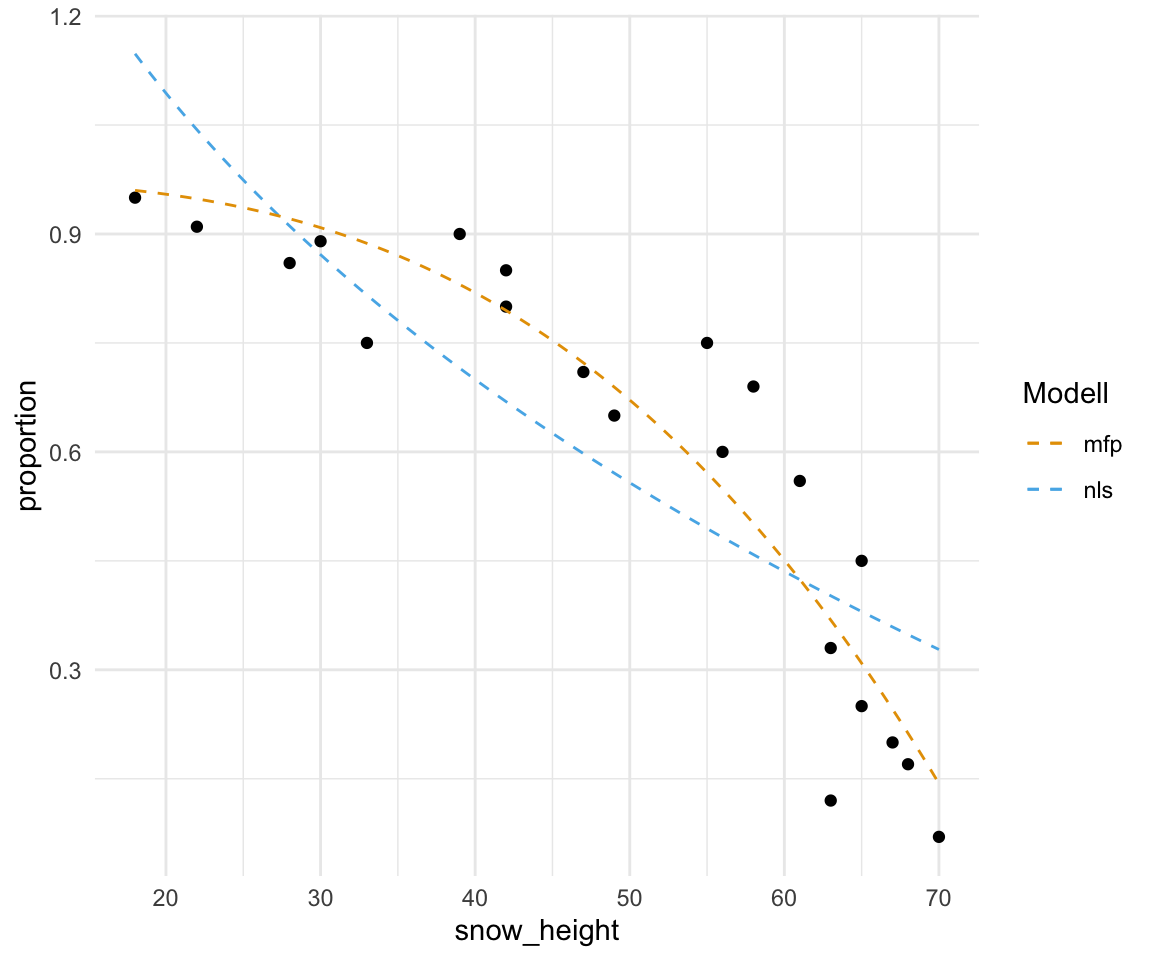
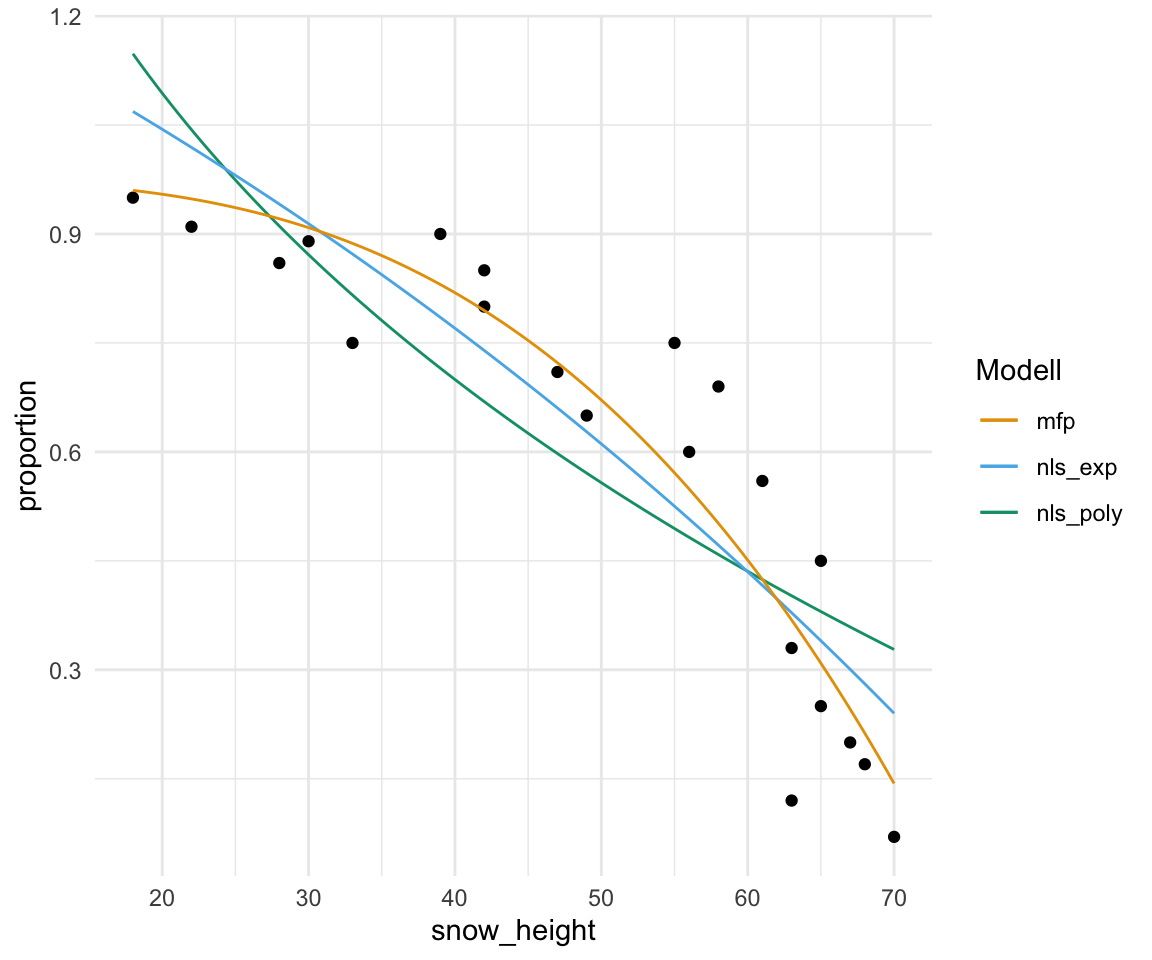
added non linear

diff --git a/docs/stat-modeling-beta.html b/docs/stat-modeling-beta.html
@@ -756,7 +756,7 @@ div.csl-indent {
 
 </header>
 
-<p><em>Letzte Änderung am 07. January 2024 um 18:56:06</em></p>
+<p><em>Letzte Änderung am 07. January 2024 um 20:40:33</em></p>
 <div class="quarto-figure quarto-figure-center">
 <figure class="figure">
 <p><img src="images/caution.png" class="img-fluid figure-img" style="width:50.0%"></p>
@@ -1430,10 +1430,14 @@ Wo ist die mathematische Formel?
 </div>
 </div>
 <div class="callout-body-container callout-body">
+<p>Jetzt haben wir zwar schön das Modell mit der Beta Regression geschätzt aber leider keine mathematische Formel erhalten. Das ist jetzt ja eigentlich auch eine andere Fragestellung. Daher nutzen wir für die Erstellung der mathematischen Formel auch nicht die Beta Regression sondern die nicht linear Regression. Prinzipiell ginge natürlich auch die lineare Regression, aber da wissen wir ja schon, dass die nicht so super funktioniert. Hier jetzt also der Weg um die Koeffizienten einer nicht lineare Regression zu bestimmen, die durch die Punkte eine Kurve legt.</p>
+<p>Auch hier haben wir die Wahl zwischen der Funktion <code>nls()</code> aus dem Standardpaket in R oder aber der Funktion <code>mfp()</code> aus dem gleichnamigen R Paket <code>{mfp}</code>. In den beiden Tabs zeige ich dir einmal die schnelle Anwendung. Wenn du mehr lesen willst dann kannst du nochmal in dem <a href="stat-modeling-non-linear.html">Kapitel zur nicht linearen Regression</a> reinschauen. Wie immer führe ich hier den Code mehr aus als ihn dann zu erklären.</p>
 <div class="tabset-margin-container"></div><div class="panel-tabset">
 <ul class="nav nav-tabs" role="tablist"><li class="nav-item" role="presentation"><a class="nav-link active" id="tabset-2-1-tab" data-bs-toggle="tab" data-bs-target="#tabset-2-1" role="tab" aria-controls="tabset-2-1" aria-selected="true">Mit <code>nls()</code></a></li><li class="nav-item" role="presentation"><a class="nav-link" id="tabset-2-2-tab" data-bs-toggle="tab" data-bs-target="#tabset-2-2" role="tab" aria-controls="tabset-2-2" aria-selected="false">Mit <code>mfp()</code></a></li></ul>
 <div class="tab-content">
 <div id="tabset-2-1" class="tab-pane active" role="tabpanel" aria-labelledby="tabset-2-1-tab">
+<p>Die Funktion <code>nls()</code> hat die Herausforderung, dass wir Startwerte für die Koeffizienten unserer mathematischen Formel übergeben müssen. Darüber hinaus müssen wir auch in der Funktion <code>nls()</code> eine Formel vordefinieren, die dann eben mit den Werten der Koeffizienten gefüllt wird. Wenn es dir auch eher schwer fällt in einer Punktewolke eine mathematische Funktion zu sehen, dann ist die Funktion <code>nls()</code> eine Herausforderung. Es gibt zwar den einen oder anderen Trick, aber am Ende müssen wir schauen, ob es dann passt mit dem Ergebnis.</p>
+<p>Wir brauchen erstmal Startwerte für unsere mathematische Formel <span class="math inline">\(y = a - x^b\)</span>. Ein Trick ist, erstmal eine lineare Regression mit <code>lm()</code> zu rechnen und die Koeffizienten dann als Startwerte in <code>nls()</code> zu nutzen.</p>
 <div class="cell">
 <div class="sourceCode cell-code" id="cb39"><pre class="sourceCode r code-with-copy"><code class="sourceCode r"><span id="cb39-1"><a href="#cb39-1" aria-hidden="true" tabindex="-1"></a><span class="fu">lm</span>(<span class="fu">log</span>(proportion) <span class="sc">~</span> snow_height, hunting_tbl)</span></code><button title="In die Zwischenablage kopieren" class="code-copy-button"><i class="bi"></i></button></pre></div>
 <div class="cell-output cell-output-stdout">
@@ -1446,14 +1450,16 @@ Coefficients:
      1.0324      -0.0354  </code></pre>
 </div>
 </div>
+<p>Mit unseren Startwerten können wir dann einmal schauen, ob unser Modell konvergiert. Dann haben wir auch die Werte für die Koeffizienten <span class="math inline">\(a\)</span> und <span class="math inline">\(b\)</span> und können das Modell als mathematische Formel aufschreiben.</p>
 <div class="cell">
-<div class="sourceCode cell-code" id="cb41"><pre class="sourceCode r code-with-copy"><code class="sourceCode r"><span id="cb41-1"><a href="#cb41-1" aria-hidden="true" tabindex="-1"></a><span class="fu">nls</span>(proportion <span class="sc">~</span> b0 <span class="sc">-</span> <span class="fu">I</span>(snow_height<span class="sc">^</span>b1), <span class="at">data =</span> hunting_tbl, </span>
-<span id="cb41-2"><a href="#cb41-2" aria-hidden="true" tabindex="-1"></a>    <span class="at">start =</span> <span class="fu">c</span>(<span class="at">b0 =</span> <span class="fu">exp</span>(<span class="fl">1.0324</span>), <span class="at">b1 =</span> <span class="sc">-</span><span class="fl">0.0354</span>))</span></code><button title="In die Zwischenablage kopieren" class="code-copy-button"><i class="bi"></i></button></pre></div>
+<div class="sourceCode cell-code" id="cb41"><pre class="sourceCode r code-with-copy"><code class="sourceCode r"><span id="cb41-1"><a href="#cb41-1" aria-hidden="true" tabindex="-1"></a><span class="fu">nls</span>(proportion <span class="sc">~</span> a <span class="sc">-</span> <span class="fu">I</span>(snow_height<span class="sc">^</span>b), <span class="at">data =</span> hunting_tbl, </span>
+<span id="cb41-2"><a href="#cb41-2" aria-hidden="true" tabindex="-1"></a>    <span class="at">start =</span> <span class="fu">c</span>(<span class="at">a =</span> <span class="fu">exp</span>(<span class="fl">1.0324</span>), <span class="at">b =</span> <span class="sc">-</span><span class="fl">0.0354</span>),</span>
+<span id="cb41-3"><a href="#cb41-3" aria-hidden="true" tabindex="-1"></a>    <span class="at">control =</span> <span class="fu">nls.control</span>(<span class="at">maxiter =</span> <span class="dv">1000</span>))</span></code><button title="In die Zwischenablage kopieren" class="code-copy-button"><i class="bi"></i></button></pre></div>
 <div class="cell-output cell-output-stdout">
 <pre><code>Nonlinear regression model
-  model: proportion ~ b0 - I(snow_height^b1)
+  model: proportion ~ a - I(snow_height^b)
    data: hunting_tbl
-   b0    b1 
+    a     b 
 3.196 0.248 
  residual sum-of-squares: 0.5484
 
@@ -1461,14 +1467,40 @@ Number of iterations to convergence: 6
 Achieved convergence tolerance: 1.949e-07</code></pre>
 </div>
 </div>
-<p>Dann können wir uns auch schon die Gleichung zusammenbauen.</p>
+<p>Wir können auch nochmal eine <span class="math inline">\(e\)</span>-Funktion mit <span class="math inline">\(y = a - e^{b \cdot x}\)</span> nutzen und schauen, ob wir damit etwas besser an die Daten näherkommen. Hier müssen wir dann wirklich ausprobieren, was teilweise echt nervig ist. Dafür schauen wir uns gleich nochmal die Funktion <code>mfp()</code> an.</p>
+<div class="cell">
+<div class="sourceCode cell-code" id="cb43"><pre class="sourceCode r code-with-copy"><code class="sourceCode r"><span id="cb43-1"><a href="#cb43-1" aria-hidden="true" tabindex="-1"></a><span class="fu">nls</span>(proportion <span class="sc">~</span> a <span class="sc">-</span> <span class="fu">exp</span>(b <span class="sc">*</span> snow_height), <span class="at">data =</span> hunting_tbl, </span>
+<span id="cb43-2"><a href="#cb43-2" aria-hidden="true" tabindex="-1"></a>    <span class="at">start =</span> <span class="fu">c</span>(<span class="at">a =</span> <span class="dv">1</span>, <span class="at">b =</span> <span class="dv">0</span>),</span>
+<span id="cb43-3"><a href="#cb43-3" aria-hidden="true" tabindex="-1"></a>    <span class="at">control =</span> <span class="fu">nls.control</span>(<span class="at">maxiter =</span> <span class="dv">1000</span>))</span></code><button title="In die Zwischenablage kopieren" class="code-copy-button"><i class="bi"></i></button></pre></div>
+<div class="cell-output cell-output-stdout">
+<pre><code>Nonlinear regression model
+  model: proportion ~ a - exp(b * snow_height)
+   data: hunting_tbl
+      a       b 
+2.26755 0.01014 
+ residual sum-of-squares: 0.3478
+
+Number of iterations to convergence: 6 
+Achieved convergence tolerance: 2.307e-07</code></pre>
+</div>
+</div>
+<p>Hat jeweils geklappt und dann können wir uns auch schon die Gleichung zusammenbauen. Die Frage ist natürlich, ob die Werte gut zu unseren Daten passen. Das werden wir dann gleich nochmal in der <a href="#fig-beta-fox-predict-non">Abbildung&nbsp;<span>49.6</span></a> überprüfen. Hier dann einmal die erste Gleichung für das Polynom und dann die zweite Gleichung mit der <span class="math inline">\(e\)</span>-Funktion.</p>
 <p><span class="math display">\[
 proportion = 3.196 - snow\_height^{0.248}
 \]</span></p>
+<p><span class="math display">\[
+proportion = 2.268 - e^{0.0101 \cdot snow\_height}
+\]</span></p>
+<p>Welche dann die beste mathematische Formel ist sehen wir dann gleich. Bitte schaue dir aber noch den anderen Tab mit der Funktion <code>mfp()</code> an, denn mit der Funktion <code>nls()</code> ist es dann doch manchmal etwas Glücksspiel, ob man die richtige mathematische Formel mit den richtigen Startwerten trifft.</p>
 </div>
 <div id="tabset-2-2" class="tab-pane" role="tabpanel" aria-labelledby="tabset-2-2-tab">
+<p>Nachdem wir den langen Weg mit der Funktion <code>nls()</code> gegeangen sind, machen wir es jetzt etwas kürzer mit der Funktion <code>mfp()</code>. Wir müssen nur angeben welche Variable als Polynom modelliert werden soll. Den Rest macht dann die Funktion <code>mfp()</code> für uns. Wir erhalten dann auch die Formel für den Zusammenhang der folgenden Form. Wir erhalten dann die Werte für <span class="math inline">\(\beta_0\)</span>, <span class="math inline">\(\beta_1\)</span> sowie dem Polynom <span class="math inline">\(p\)</span> und der möglichen Transformation von <span class="math inline">\(x\)</span>.</p>
+<p><span class="math display">\[
+proportion = \beta_0 - \beta_1 \cdot \left(snow\_height\right)^p
+\]</span></p>
+<p>Dann rechnen wir mal die Funktion und schauen welche Werte wir erhalten. Die Kunst ist hier die Werte für die Koeffizienten aus der Ausgabe abzulesen. Aber das mache ich dir hier ja einmal vor.</p>
 <div class="cell">
-<div class="sourceCode cell-code" id="cb43"><pre class="sourceCode r code-with-copy"><code class="sourceCode r"><span id="cb43-1"><a href="#cb43-1" aria-hidden="true" tabindex="-1"></a><span class="fu">mfp</span>(proportion <span class="sc">~</span> <span class="fu">fp</span>(snow_height), <span class="at">data =</span> hunting_tbl)</span></code><button title="In die Zwischenablage kopieren" class="code-copy-button"><i class="bi"></i></button></pre></div>
+<div class="sourceCode cell-code" id="cb45"><pre class="sourceCode r code-with-copy"><code class="sourceCode r"><span id="cb45-1"><a href="#cb45-1" aria-hidden="true" tabindex="-1"></a><span class="fu">mfp</span>(proportion <span class="sc">~</span> <span class="fu">fp</span>(snow_height), <span class="at">data =</span> hunting_tbl)</span></code><button title="In die Zwischenablage kopieren" class="code-copy-button"><i class="bi"></i></button></pre></div>
 <div class="cell-output cell-output-stdout">
 <pre><code>Call:
 mfp(formula = proportion ~ fp(snow_height), data = hunting_tbl)
@@ -1498,30 +1530,35 @@ Null Deviance:      1.705
 Residual Deviance: 0.2184   AIC: -30.29 </code></pre>
 </div>
 </div>
-<p>Dann erhalten wir folgende Gleichung.</p>
+<p>Dann können wir die Werte aus der Ausgabe auch schon in unsere Gleichung einsetzen. Der Vorteil ist wirklich, dass ich mir nicht überlegen muss, welche mathematische Formel ich nutzen will. Das schränkt mich zwar ein, macht mir das Leben aber auch einfacher. Wir erhalten dann eben eine Polynom, was auch einfach einzusetzen ist.</p>
 <p><span class="math display">\[
 proportion = 0.9741 -2.4216 \cdot \left(\cfrac{snow\_height}{100}\right)^3
 \]</span></p>
+<p>Dann schauen wir mal gleich, welche der drei mathematischen Formeln am besten zu unseren Daten in der <a href="#fig-beta-fox-predict-non">Abbildung&nbsp;<span>49.6</span></a> passen.</p>
 </div>
 </div>
 </div>
+<p>Im ersten Schritt bauen wir uns einmal in R die drei mathematischen Formeln einmal nach. Wir nutzen dafür die Funktion <code>\(x){...}</code> und setzen die Zahlen der Koeffizienten ein. Hier musst du nur mit den Klammern aufpassen, sonst bauen sich die Formeln einfach.</p>
 <div class="cell">
-<div class="sourceCode cell-code" id="cb45"><pre class="sourceCode r code-with-copy"><code class="sourceCode r"><span id="cb45-1"><a href="#cb45-1" aria-hidden="true" tabindex="-1"></a>nls_func <span class="ot">&lt;-</span> \(x){<span class="fl">3.196</span> <span class="sc">-</span> x<span class="sc">^</span>(<span class="fl">0.248</span>)}</span>
-<span id="cb45-2"><a href="#cb45-2" aria-hidden="true" tabindex="-1"></a>mfp_func <span class="ot">&lt;-</span> \(x){<span class="fl">0.9741</span> <span class="sc">-</span> <span class="fl">2.4216</span> <span class="sc">*</span> (x<span class="sc">/</span><span class="dv">100</span>)<span class="sc">^</span><span class="dv">3</span>}</span></code><button title="In die Zwischenablage kopieren" class="code-copy-button"><i class="bi"></i></button></pre></div>
+<div class="sourceCode cell-code" id="cb47"><pre class="sourceCode r code-with-copy"><code class="sourceCode r"><span id="cb47-1"><a href="#cb47-1" aria-hidden="true" tabindex="-1"></a>nls_poly_func <span class="ot">&lt;-</span> \(x){<span class="fl">3.196</span> <span class="sc">-</span> x<span class="sc">^</span>(<span class="fl">0.248</span>)}</span>
+<span id="cb47-2"><a href="#cb47-2" aria-hidden="true" tabindex="-1"></a>nls_exp_func <span class="ot">&lt;-</span> \(x){<span class="fl">2.268</span> <span class="sc">-</span> <span class="fu">exp</span>(<span class="fl">0.0101</span> <span class="sc">*</span> x)}</span>
+<span id="cb47-3"><a href="#cb47-3" aria-hidden="true" tabindex="-1"></a>mfp_func <span class="ot">&lt;-</span> \(x){<span class="fl">0.9741</span> <span class="sc">-</span> <span class="fl">2.4216</span> <span class="sc">*</span> (x<span class="sc">/</span><span class="dv">100</span>)<span class="sc">^</span><span class="dv">3</span>}</span></code><button title="In die Zwischenablage kopieren" class="code-copy-button"><i class="bi"></i></button></pre></div>
 </div>
+<p>In der <a href="#fig-beta-fox-predict-non">Abbildung&nbsp;<span>49.6</span></a> siehst du einmal den Vergleich der drei nicht linearen Regressionen zu den Datenpunkten. Was will man sagen, dass Modell aus der Funktion <code>mfp()</code> bei weitem das beste Modell liefert um den Verlauf der Punkte durch eine Kurve zu beschreiben. Wenn es dir also nur darum ginge die Werte für die Jagderfolge nach der Schneehöhe vorherzusagen, dann sieht das <code>mfp()</code>-Modell sehr gut aus.</p>
 <div class="cell" data-layout-align="center">
-<div class="sourceCode cell-code" id="cb46"><pre class="sourceCode r code-with-copy"><code class="sourceCode r"><span id="cb46-1"><a href="#cb46-1" aria-hidden="true" tabindex="-1"></a>hunting_tbl <span class="sc">%&gt;%</span> </span>
-<span id="cb46-2"><a href="#cb46-2" aria-hidden="true" tabindex="-1"></a>  <span class="fu">ggplot</span>(<span class="fu">aes</span>(snow_height, proportion)) <span class="sc">+</span></span>
-<span id="cb46-3"><a href="#cb46-3" aria-hidden="true" tabindex="-1"></a>  <span class="fu">theme_minimal</span>() <span class="sc">+</span></span>
-<span id="cb46-4"><a href="#cb46-4" aria-hidden="true" tabindex="-1"></a>  <span class="fu">geom_point</span>() <span class="sc">+</span></span>
-<span id="cb46-5"><a href="#cb46-5" aria-hidden="true" tabindex="-1"></a>  <span class="fu">geom_function</span>(<span class="at">fun =</span> nls_func, <span class="fu">aes</span>(<span class="at">color =</span> <span class="st">"nls"</span>), <span class="at">linetype =</span> <span class="st">'dashed'</span>) <span class="sc">+</span></span>
-<span id="cb46-6"><a href="#cb46-6" aria-hidden="true" tabindex="-1"></a>  <span class="fu">geom_function</span>(<span class="at">fun =</span> mfp_func, <span class="fu">aes</span>(<span class="at">color =</span> <span class="st">"mfp"</span>), <span class="at">linetype =</span> <span class="st">'dashed'</span>) <span class="sc">+</span></span>
-<span id="cb46-7"><a href="#cb46-7" aria-hidden="true" tabindex="-1"></a>  <span class="fu">scale_color_manual</span>(<span class="at">name =</span> <span class="st">"Modell"</span>, <span class="at">values =</span> cb_pal[<span class="dv">2</span><span class="sc">:</span><span class="dv">3</span>])</span></code><button title="In die Zwischenablage kopieren" class="code-copy-button"><i class="bi"></i></button></pre></div>
+<div class="sourceCode cell-code" id="cb48"><pre class="sourceCode r code-with-copy"><code class="sourceCode r"><span id="cb48-1"><a href="#cb48-1" aria-hidden="true" tabindex="-1"></a>hunting_tbl <span class="sc">%&gt;%</span> </span>
+<span id="cb48-2"><a href="#cb48-2" aria-hidden="true" tabindex="-1"></a>  <span class="fu">ggplot</span>(<span class="fu">aes</span>(snow_height, proportion)) <span class="sc">+</span></span>
+<span id="cb48-3"><a href="#cb48-3" aria-hidden="true" tabindex="-1"></a>  <span class="fu">theme_minimal</span>() <span class="sc">+</span></span>
+<span id="cb48-4"><a href="#cb48-4" aria-hidden="true" tabindex="-1"></a>  <span class="fu">geom_point</span>() <span class="sc">+</span></span>
+<span id="cb48-5"><a href="#cb48-5" aria-hidden="true" tabindex="-1"></a>  <span class="fu">geom_function</span>(<span class="at">fun =</span> nls_poly_func, <span class="fu">aes</span>(<span class="at">color =</span> <span class="st">"nls_poly"</span>)) <span class="sc">+</span></span>
+<span id="cb48-6"><a href="#cb48-6" aria-hidden="true" tabindex="-1"></a>  <span class="fu">geom_function</span>(<span class="at">fun =</span> nls_exp_func, <span class="fu">aes</span>(<span class="at">color =</span> <span class="st">"nls_exp"</span>)) <span class="sc">+</span></span>
+<span id="cb48-7"><a href="#cb48-7" aria-hidden="true" tabindex="-1"></a>  <span class="fu">geom_function</span>(<span class="at">fun =</span> mfp_func, <span class="fu">aes</span>(<span class="at">color =</span> <span class="st">"mfp"</span>)) <span class="sc">+</span></span>
+<span id="cb48-8"><a href="#cb48-8" aria-hidden="true" tabindex="-1"></a>  <span class="fu">scale_color_manual</span>(<span class="at">name =</span> <span class="st">"Modell"</span>, <span class="at">values =</span> cb_pal[<span class="dv">2</span><span class="sc">:</span><span class="dv">4</span>])</span></code><button title="In die Zwischenablage kopieren" class="code-copy-button"><i class="bi"></i></button></pre></div>
 <div class="cell-output-display">
 <div id="fig-beta-fox-predict-non" class="quarto-figure quarto-figure-center anchored">
 <figure class="figure">
 <p><img src="stat-modeling-beta_files/figure-html/fig-beta-fox-predict-non-1.png" class="img-fluid figure-img" width="576"></p>
-<figcaption class="figure-caption">Abbildung&nbsp;49.6— Ausgabe ausgewählter Modelgüteplots der Funktion <code>check_model()</code>.</figcaption>
+<figcaption class="figure-caption">Abbildung&nbsp;49.6— Zusammenhang zwischen dem Jagederfolg von Eisfüchsen und der Schneehöhe in den jeweiligen beobachteten Habitaten zusammen mit den drei nicht linearen Regressionen aus der Funktion <code>nls()</code> und <code>mfp()</code>.</figcaption>
 </figure>
 </div>
 </div>
@@ -1534,7 +1571,7 @@ proportion = 0.9741 -2.4216 \cdot \left(\cfrac{snow\_height}{100}\right)^3
 <h2 data-number="49.5" class="anchored" data-anchor-id="sec-mult-comp-beta-reg"><span class="header-section-number">49.5</span> Gruppenvergleich</h2>
 <p>Text</p>
 <div class="cell">
-<div class="sourceCode cell-code" id="cb47"><pre class="sourceCode r code-with-copy"><code class="sourceCode r"><span id="cb47-1"><a href="#cb47-1" aria-hidden="true" tabindex="-1"></a>hunting_beta_phi_fit <span class="sc">%&gt;%</span> <span class="fu">Anova</span>()</span></code><button title="In die Zwischenablage kopieren" class="code-copy-button"><i class="bi"></i></button></pre></div>
+<div class="sourceCode cell-code" id="cb49"><pre class="sourceCode r code-with-copy"><code class="sourceCode r"><span id="cb49-1"><a href="#cb49-1" aria-hidden="true" tabindex="-1"></a>hunting_beta_phi_fit <span class="sc">%&gt;%</span> <span class="fu">Anova</span>()</span></code><button title="In die Zwischenablage kopieren" class="code-copy-button"><i class="bi"></i></button></pre></div>
 <div class="cell-output cell-output-stdout">
 <pre><code>Analysis of Deviance Table (Type II tests)
 
